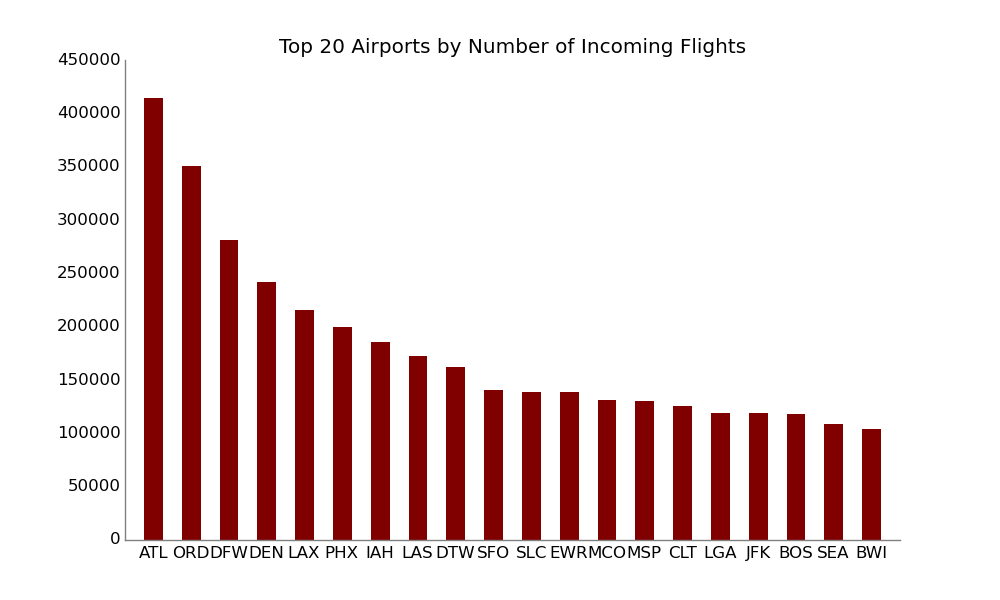
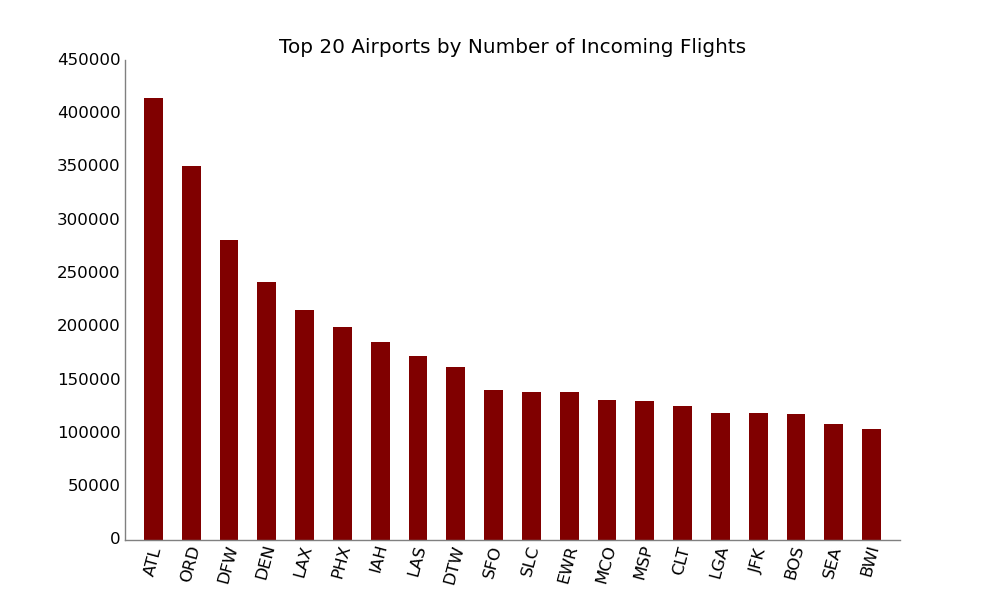
edit plot

Changed region(s): [[0.124, 0.9, 0.899, 0.99]]

diff --git a/PythonScripts/num_incoming_by_airport/bar_plot.py b/PythonScripts/num_incoming_by_airport/bar_plot.py
@@ -31,7 +31,7 @@ def main():
 
     plt.title('Top 20 Airports by Number of Incoming Flights')
     
-    plt.xticks( x + .25, x_labels )
+    plt.xticks( x + .25, x_labels, rotation=75)
     plt.xlim([min(x) - .5, max(x) + 1])
 
     # Hide the right and top spines
